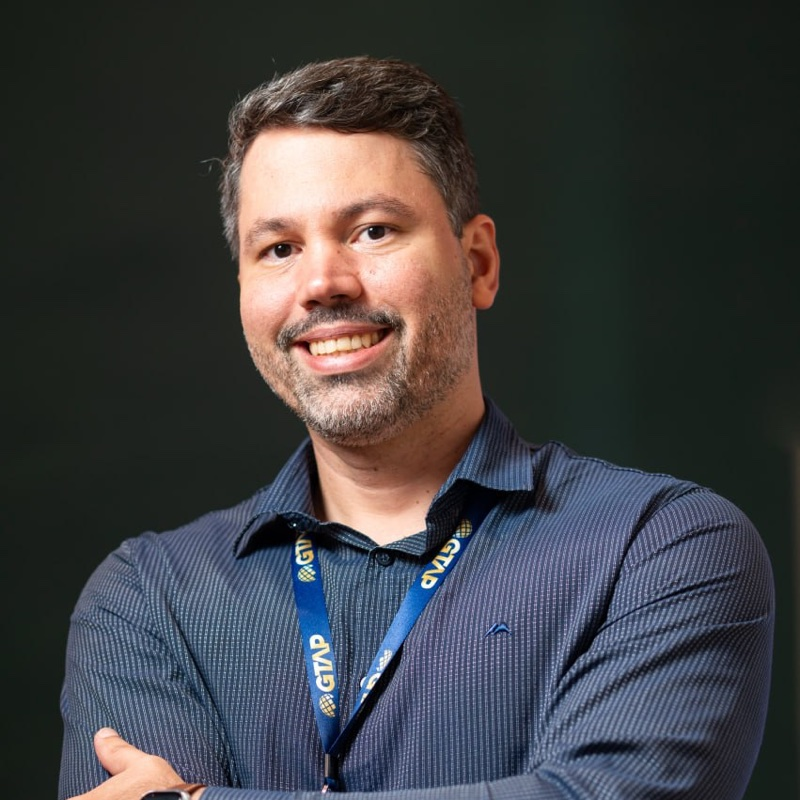
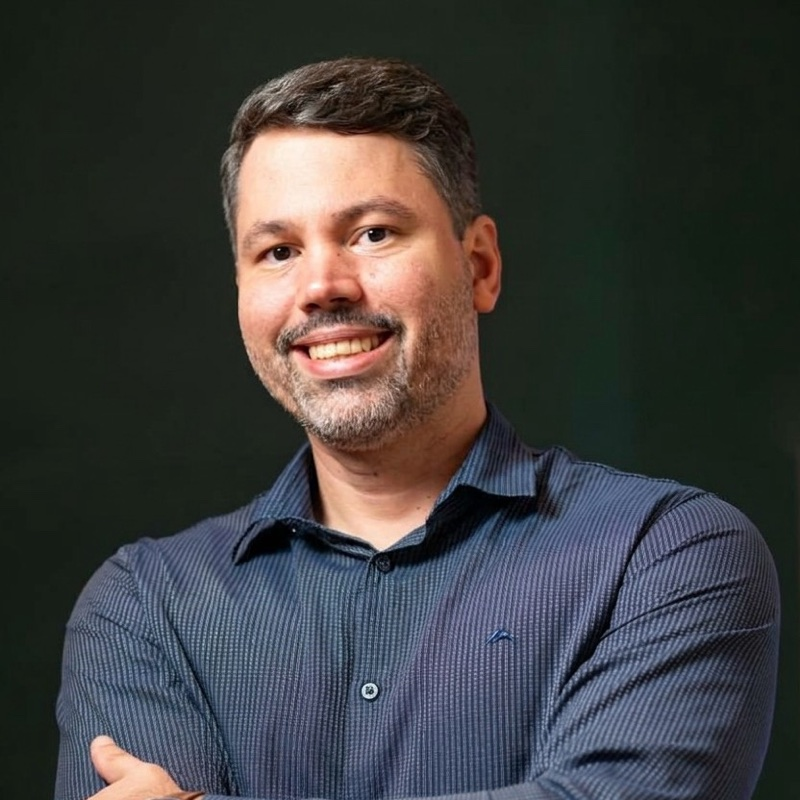
Troca a foto de Gileard
Foto nova sem sem crachá, no mesmo formato das demais (fundo original).

diff --git a/index.html b/index.html
@@ -406,7 +406,7 @@
       <article class="team-card">
         <p class="team-fase">Antes do código</p>
         <div class="team-photo">
-          <img src="img/equipe/gileard.jpg?v=8" width="800" height="800" alt="Gileard Teixeira" loading="lazy">
+          <img src="img/equipe/gileard.jpg?v=9" width="800" height="800" alt="Gileard Teixeira" loading="lazy">
         </div>
         <div class="team-caption">
           <span class="role-tag">Sócio</span>
